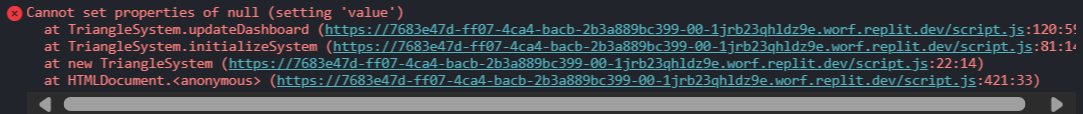
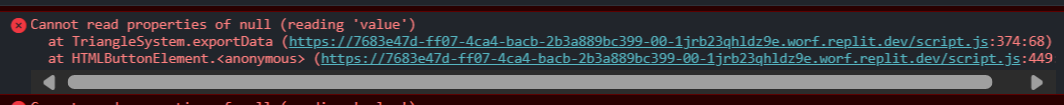
Agent query: 1. Does the Export Data button now work without throwing errors, generating a CSV file with the correct information? 2. Are all preset buttons (Equilateral, Isosceles, Scalene, Right, Acute, Obtuse) working correctly? 3. Is the dashboard data updating properly when changing presets or a

diff --git a/script.js b/script.js
@@ -362,51 +362,53 @@ class TriangleSystem {
     }
 
     exportData() {
+        const safeGetValue = (selector) => {
+            const element = document.querySelector(selector);
+            return element ? element.value || element.textContent : 'N/A';
+        };
+
         const data = {
             system: {
-                perimeter: document.querySelector('#system-perimeter').value,
-                area: document.querySelector('#system-area').value
+                perimeter: safeGetValue('#system-perimeter'),
+                area: safeGetValue('#system-area')
             },
             nodes: {
                 n1: {
-                    x: document.querySelector('#node-n1-x').value,
-                    y: document.querySelector('#node-n1-y').value,
-                    angle: document.querySelector('#node-n1-angle').value
+                    x: safeGetValue('#node-n1-x'),
+                    y: safeGetValue('#node-n1-y')
                 },
                 n2: {
-                    x: document.querySelector('#node-n2-x').value,
-                    y: document.querySelector('#node-n2-y').value,
-                    angle: document.querySelector('#node-n2-angle').value
+                    x: safeGetValue('#node-n2-x'),
+                    y: safeGetValue('#node-n2-y')
                 },
                 n3: {
-                    x: document.querySelector('#node-n3-x').value,
-                    y: document.querySelector('#node-n3-y').value,
-                    angle: document.querySelector('#node-n3-angle').value
+                    x: safeGetValue('#node-n3-x'),
+                    y: safeGetValue('#node-n3-y')
                 }
             },
             channels: {
-                nc1: document.querySelector('#edge-nc1').value,
-                nc2: document.querySelector('#edge-nc2').value,
-                nc3: document.querySelector('#edge-nc3').value
+                nc1: safeGetValue('#edge-nc1'),
+                nc2: safeGetValue('#edge-nc2'),
+                nc3: safeGetValue('#edge-nc3')
             },
             centers: {
                 centroid: {
-                    x: document.querySelector('#centroid-x').value,
-                    y: document.querySelector('#centroid-y').value
+                    x: safeGetValue('#centroid-x'),
+                    y: safeGetValue('#centroid-y')
                 },
                 incenter: {
-                    x: document.querySelector('#incenter-x').value,
-                    y: document.querySelector('#incenter-y').value
+                    x: safeGetValue('#incenter-x'),
+                    y: safeGetValue('#incenter-y')
                 }
             },
             info: {
-                dCentroidIncircle: document.querySelector('#d-centroid-incircle').textContent,
-                dMidNC1: document.querySelector('#d-mid-nc1').textContent,
-                dMidNC2: document.querySelector('#d-mid-nc2').textContent,
-                dMidNC3: document.querySelector('#d-mid-nc3').textContent,
-                rMidNC1: document.querySelector('#r-mid-nc1').textContent,
-                rMidNC2: document.querySelector('#r-mid-nc2').textContent,
-                rMidNC3: document.querySelector('#r-mid-nc3').textContent
+                dCentroidIncircle: safeGetValue('#d-centroid-incircle'),
+                dMidNC1: safeGetValue('#d-mid-nc1'),
+                dMidNC2: safeGetValue('#d-mid-nc2'),
+                dMidNC3: safeGetValue('#d-mid-nc3'),
+                rMidNC1: safeGetValue('#r-mid-nc1'),
+                rMidNC2: safeGetValue('#r-mid-nc2'),
+                rMidNC3: safeGetValue('#r-mid-nc3')
             }
         };
 
